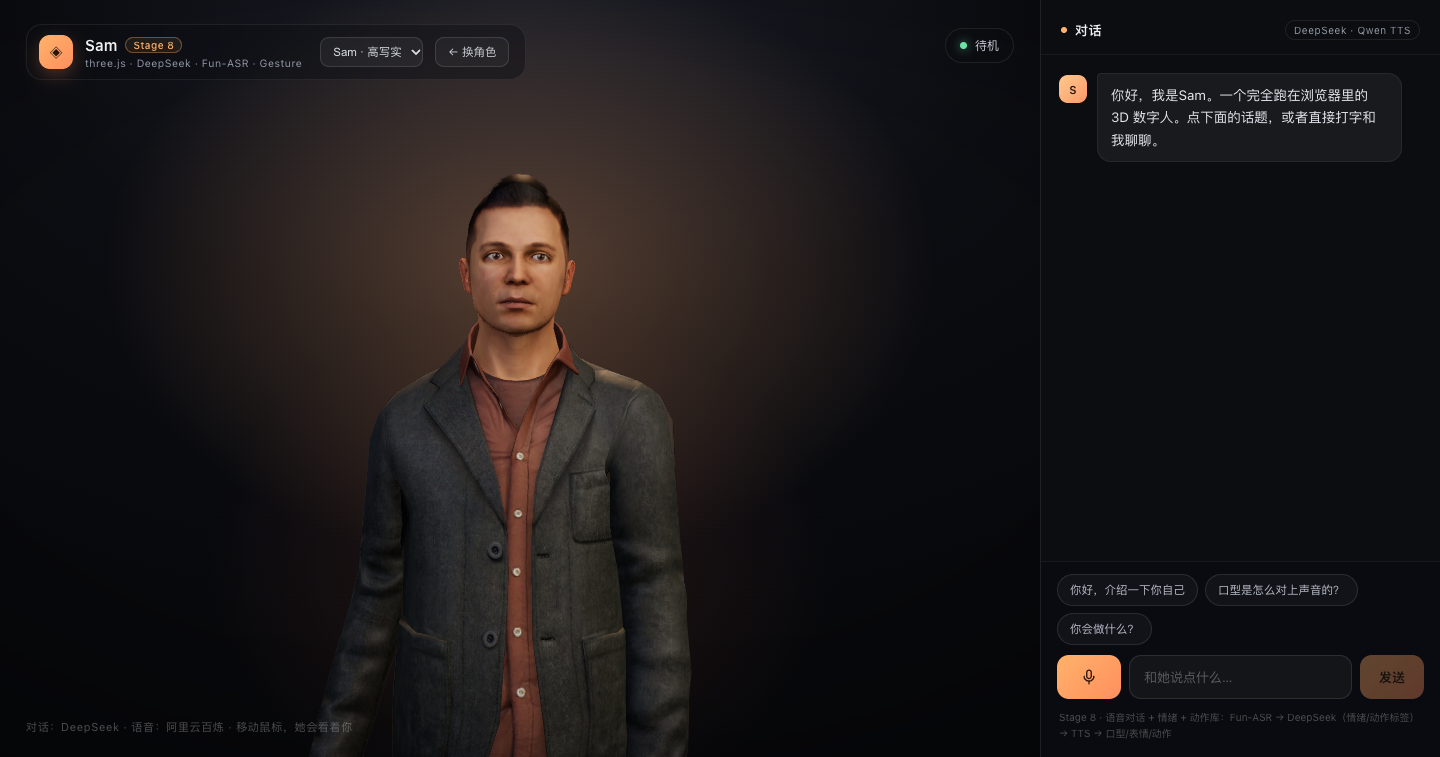
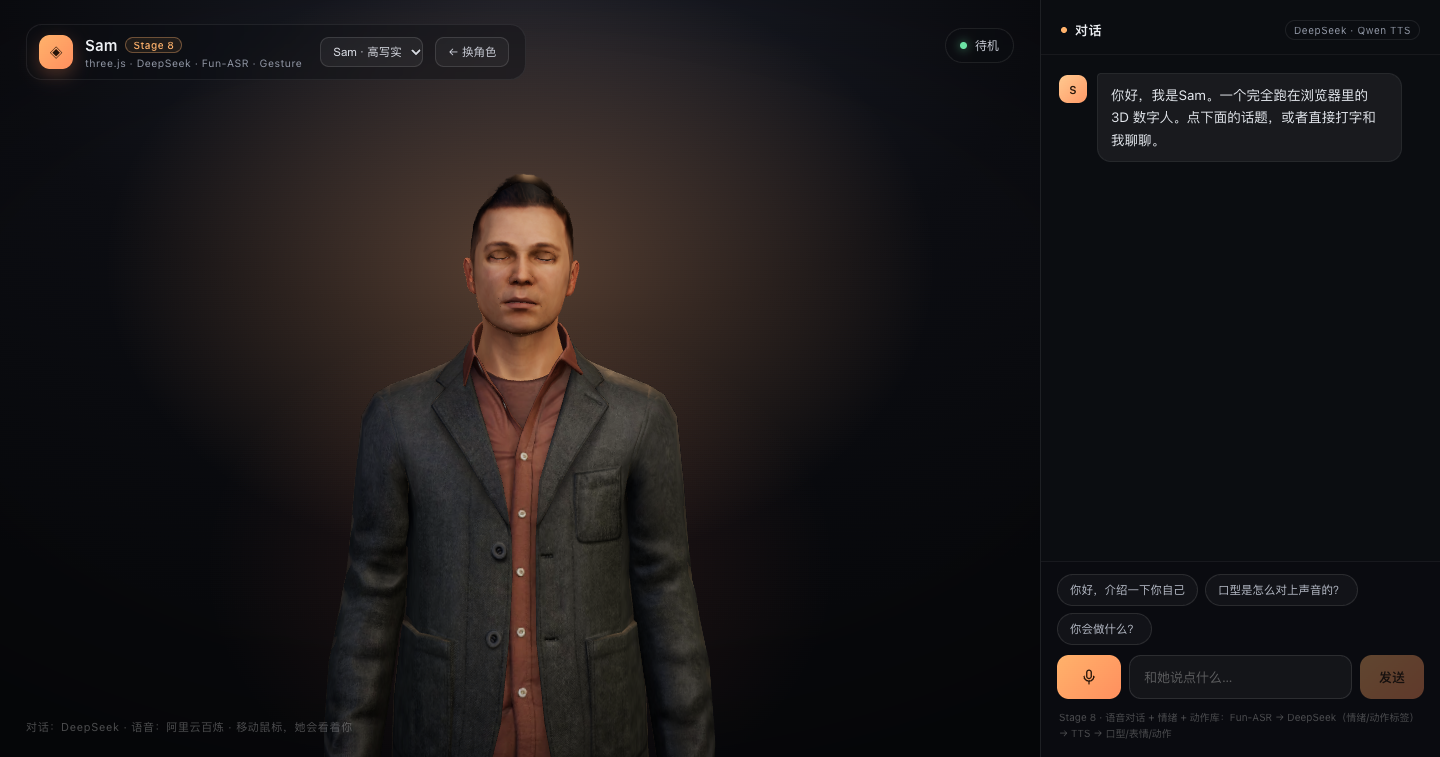
fix(character): 去掉待机时被动画耸起的肩膀
- Idle 片段的锁骨（Clavicle）旋转轨道会把肩膀一直抬着，看起来像永久耸肩
- 剥离左右锁骨旋转轨道，肩膀回到自然下沉
- 实测待机肩线平、手臂在体侧

diff --git a/src/character/gltf/GltfCharacter.ts b/src/character/gltf/GltfCharacter.ts
@@ -203,7 +203,7 @@ export class GltfCharacter implements CharacterAdapter {
     clip.tracks = clip.tracks.filter(
       (track) =>
         !/^Bip01\.(position|quaternion|scale)$/.test(track.name) &&
-        !/^Bip01_(Pelvis|Spine|Spine1|Spine2|Head|Neck)\.quaternion$/.test(track.name),
+        !/^Bip01_(Pelvis|Spine|Spine1|Spine2|Clavicle|L_Clavicle|R_Clavicle|Head|Neck)\.quaternion$/.test(track.name),
     )
 
     const mixer = new THREE.AnimationMixer(this.root!)
